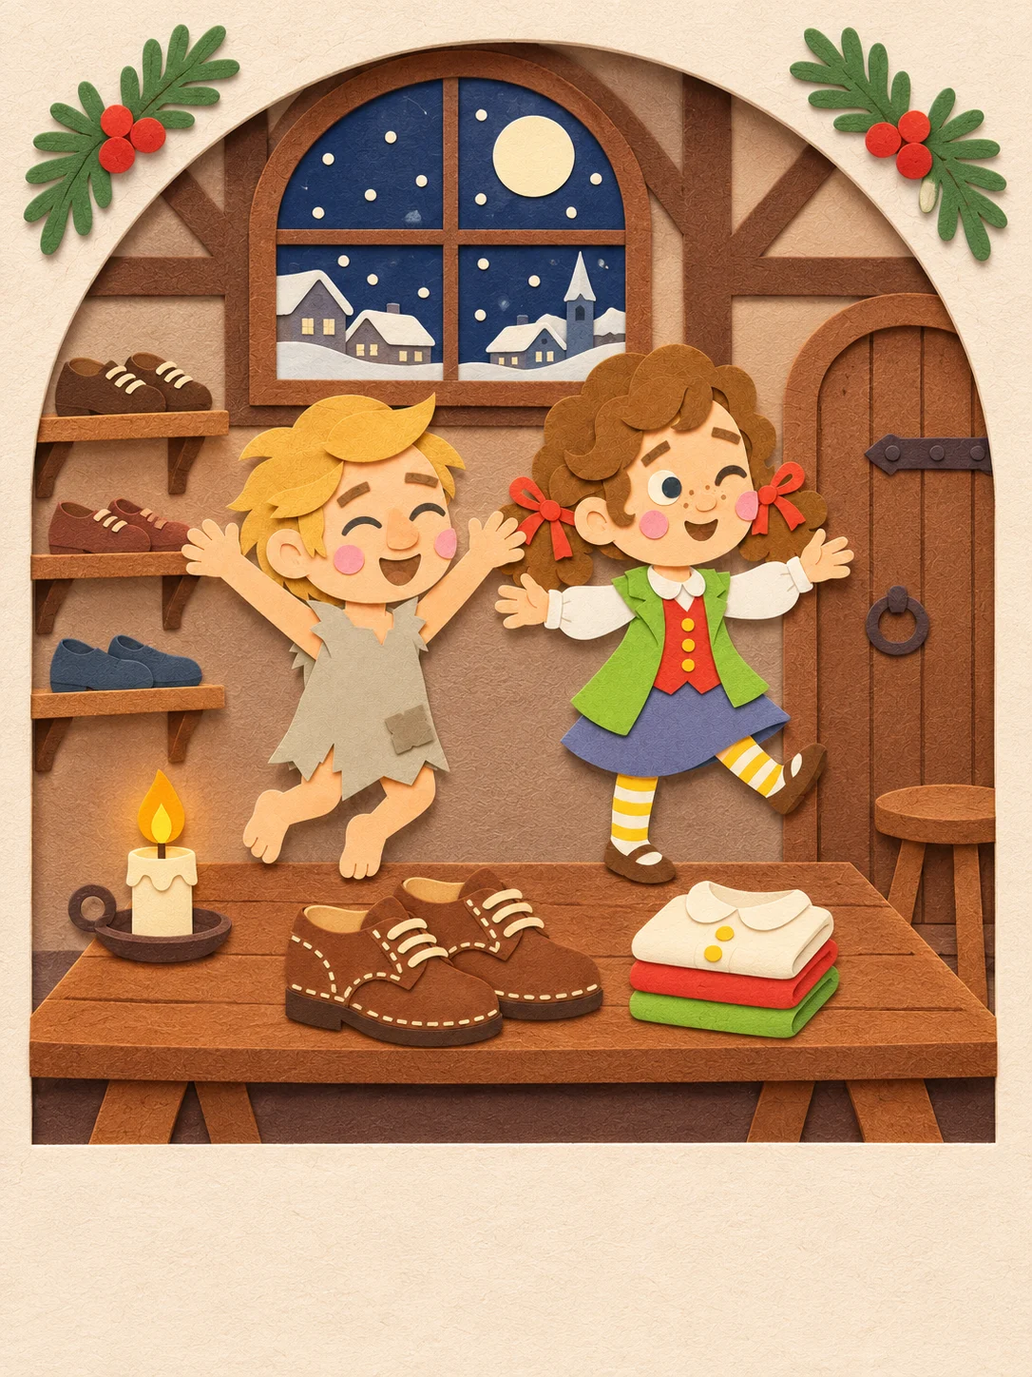
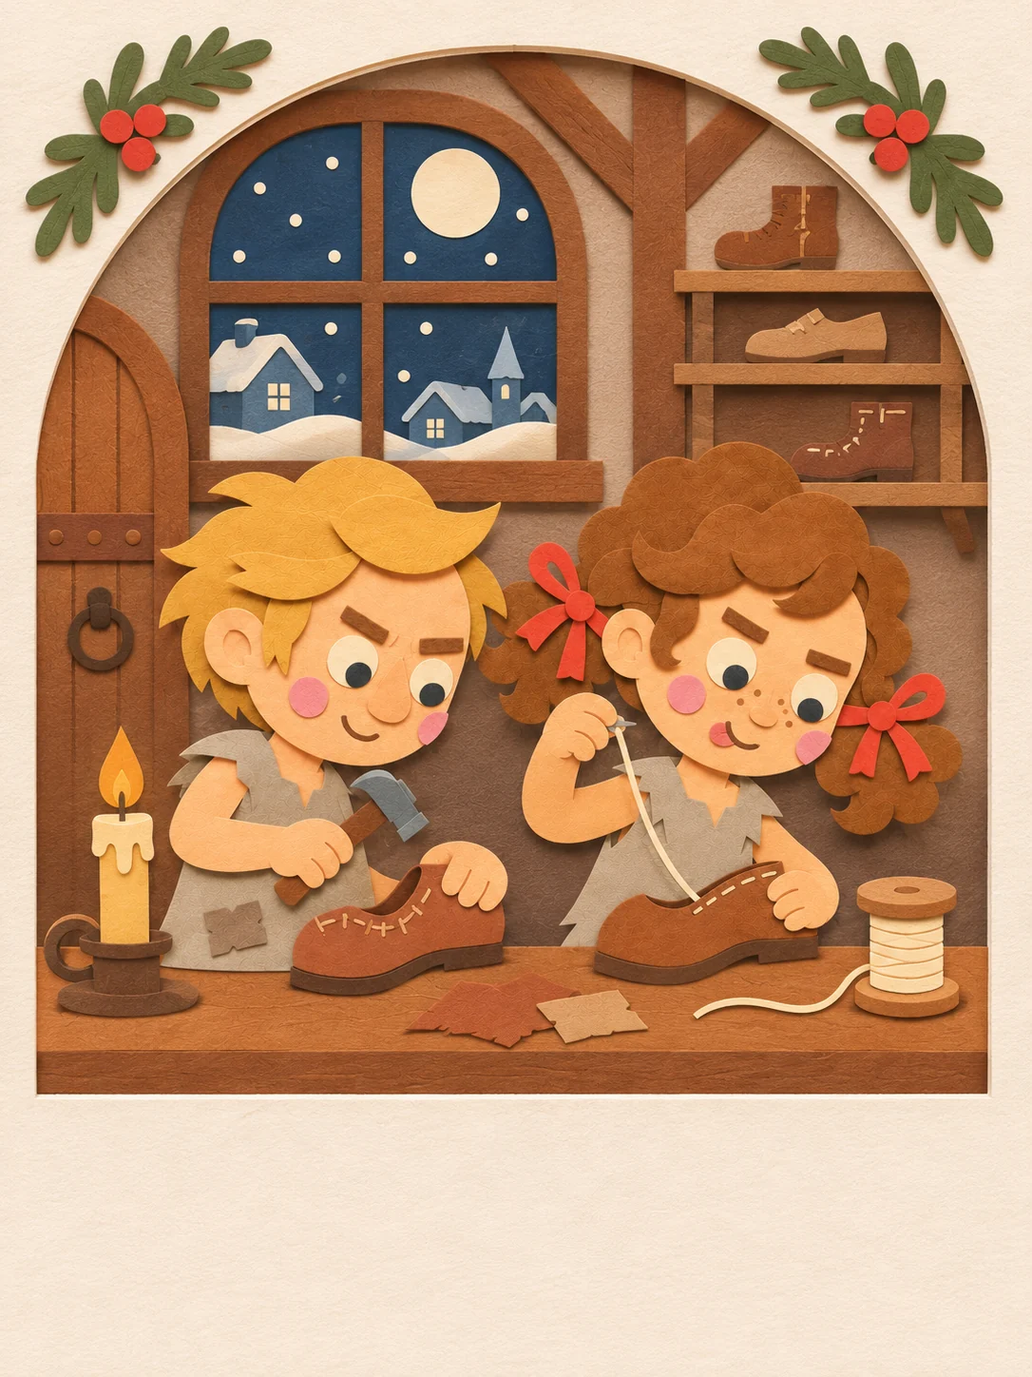
크리스마스 전날 밤 4장 아빠가 창턱에 손을 얹게 자세 그림 다시, 구두장이와 요정 세로 시작 그림을 결말 전 장면으로, 진저브레드맨 여우 장면 눈가루를 둘레 0.85초로 줄임, 기획서에 사용자 결정 기록
Claude-Session: https://claude.ai/code/session_01BY9NwcYaGBVoJkDe4jJ2J6

diff --git a/tales/night_before/night_before.js b/tales/night_before/night_before.js
@@ -11,7 +11,8 @@
   const BG_YARD = 'nb_bg_yard';      // ← 앞마당 빛 상자가 합성 검수를 통과하면 'nb_bg_yard_lb' 로 바꾼다(5~7장)
   const BG_SKY = 'nb_bg_sky_lb';     // ← 12장 빛 상자판(검수 탈락이면 'nb_bg_sky')
   const AS = '../../assets/v3w/';
-  const src = k => AS + k + '.webp';
+  const IMGV = { nb_dad_look_out: 'lo2' };   // 같은 이름으로 다시 그린 그림: 옛 그림이 캐시에 남지 않게(2026-11-28)
+  const src = k => AS + k + '.webp' + (IMGV[k] ? '?v=' + IMGV[k] : '');
   const QS = (() => { try { return new URLSearchParams(location.search); } catch (e) { return new URLSearchParams(''); } })();
   const L = typeof NB_LINES !== 'undefined' ? NB_LINES : {};
   const MORAL = '모두에게 즐거운 크리스마스, 그리고 모두 포근히 잘 자요.';
@@ -19,18 +20,18 @@
 
   /* ---------- 비율(ASP.txt). preload 가 실제 그림 비율로 다시 덮는다 ---------- */
   const ASP = {};
-  'santa_stand_pack .7917 deer_stand .9617 mom_sleep 1.9438 kid1_sleep 1.7143 kid2_sleep 1.7208 mouse_sleep 1.115 dad_stand .4067 dad_sleep 1.875 dad_wake 1.2 dad_dash 1.0067 dad_open_window .8017 dad_look_out .4717 dad_window_face .7583 dad_window_up .76 dad_turn .5267 dad_startled .4017 dad_peek .3683 dad_giggle .405 dad_relieved .3783 dad_watch_up .5283 dad_wave .5567 santa_drive .9717 santa_whistle .8233 santa_bound_down .8083 santa_land 1.055 santa_show_pack .7767 santa_laugh .78 santa_wink .8133 santa_fill 1.0633 santa_done .75 santa_finger_nose .8083 santa_rise .7817 santa_jump_sleigh .9233 santa_sleigh_wave 1.1583 deer_prance .6617 deer_run 1.425 deer_fly 1.22 deer_roof .8083 kid1_smile 1.7143 kid2_smile 1.7208 prop_sleigh 1.4917 prop_stocking_red .5883 prop_stocking_green .59 prop_stocking_blue .5883 prop_stocking_yellow .5867 prop_stocking_red_full .6117 prop_stocking_green_full .6167 prop_stocking_blue_full .6 prop_stocking_yellow_full .5867 prop_gift_a .8717 prop_gift_b .87 prop_gift_c .8717 prop_gift_d .8717 prop_shutter_l .5733 prop_shutter_r .575 prop_sash .975 prop_dream_bubble 1.1267 prop_card_cherry .765 prop_card_snowball .7667 prop_card_jelly .765 prop_marker_roof 3.7815 prop_marker_yard 3.7657 prop_marker_wall .3967 prop_marker_sock 3.75 prop_marker_shelf 3.7657 prop_marker_floor 3.7975 prop_ash_cloud 2.9412 prop_leaves 1.495 prop_snow_puff 1.1917 prop_holly 1.3383 prop_candle .7567 prop_lamb_toy 1.41 prop_harness_red 1.0983 prop_harness_green 1.0983 prop_harness_blue 1.0983 prop_harness_marigold 1.0967 prop_harness_plum 1.0983 prop_harness_persimmon 1.0533 prop_harness_lagoon 1.1017 prop_harness_pink 1.0983'
+  'santa_stand_pack .7917 deer_stand .9617 mom_sleep 1.9438 kid1_sleep 1.7143 kid2_sleep 1.7208 mouse_sleep 1.115 dad_stand .4067 dad_sleep 1.875 dad_wake 1.2 dad_dash 1.0067 dad_open_window .8017 dad_look_out .4 dad_window_face .7583 dad_window_up .76 dad_turn .5267 dad_startled .4017 dad_peek .3683 dad_giggle .405 dad_relieved .3783 dad_watch_up .5283 dad_wave .5567 santa_drive .9717 santa_whistle .8233 santa_bound_down .8083 santa_land 1.055 santa_show_pack .7767 santa_laugh .78 santa_wink .8133 santa_fill 1.0633 santa_done .75 santa_finger_nose .8083 santa_rise .7817 santa_jump_sleigh .9233 santa_sleigh_wave 1.1583 deer_prance .6617 deer_run 1.425 deer_fly 1.22 deer_roof .8083 kid1_smile 1.7143 kid2_smile 1.7208 prop_sleigh 1.4917 prop_stocking_red .5883 prop_stocking_green .59 prop_stocking_blue .5883 prop_stocking_yellow .5867 prop_stocking_red_full .6117 prop_stocking_green_full .6167 prop_stocking_blue_full .6 prop_stocking_yellow_full .5867 prop_gift_a .8717 prop_gift_b .87 prop_gift_c .8717 prop_gift_d .8717 prop_shutter_l .5733 prop_shutter_r .575 prop_sash .975 prop_dream_bubble 1.1267 prop_card_cherry .765 prop_card_snowball .7667 prop_card_jelly .765 prop_marker_roof 3.7815 prop_marker_yard 3.7657 prop_marker_wall .3967 prop_marker_sock 3.75 prop_marker_shelf 3.7657 prop_marker_floor 3.7975 prop_ash_cloud 2.9412 prop_leaves 1.495 prop_snow_puff 1.1917 prop_holly 1.3383 prop_candle .7567 prop_lamb_toy 1.41 prop_harness_red 1.0983 prop_harness_green 1.0983 prop_harness_blue 1.0983 prop_harness_marigold 1.0967 prop_harness_plum 1.0983 prop_harness_persimmon 1.0533 prop_harness_lagoon 1.1017 prop_harness_pink 1.0983'
     .split(' ').reduce((k, v, i, a) => { if (i % 2) ASP['nb_' + a[i - 1]] = +v; return k; }, 0);
 
   /* ---------- 높이(HT, 장면 비율 K=1 기준) ----------
-     아빠: 얼굴 폭(그림 px, 높이 600 그림, 누움 480) stand 136 · dash 159 · giggle 134 · look_out 133 · peek 139 · relieved 132 · startled 139 · turn 133 · watch_up 128 · wave 130 ·
+     아빠: 얼굴 폭(그림 px, 높이 600 그림, 누움 480) stand 136 · dash 159 · giggle 134 · look_out 127(2026-11-28 까치발 자세로 다시 그림) · peek 139 · relieved 132 · startled 139 · turn 133 · watch_up 128 · wave 130 ·
            window_face 240 · window_up 224 · sleep 206(높이 480) · wake 179. 덧문 열기(뒷모습)는 얼굴이 1/4만 보여 서기와 같게 둔다.
      산타(아빠의 0.7): 앞쪽 볼 지름(자동 측정 뒤 나란히 놓고 사진으로 고친 값) stand_pack 40 · drive 39 · whistle 40 · bound_down 40 · land 43 · show_pack 40 · laugh 40 · wink 39 · fill 40 · done 39 · finger_nose 38 · rise 38 · jump_sleigh 42 · sleigh_wave 42.
      순록(아빠의 0.42, 뿔 끝까지): 귀 안쪽 길이 stand 81 · roof 78 · prance 73 · run 73 · fly(귀가 접혀 사진으로 견줌) 73.
      엄마 머리 = 아빠 머리, 아이 머리 = 아빠의 0.85(PLAN 크기표). 소품은 PLAN 크기표 그대로 */
   const DAD = 220, SANTA = DAD * .7, DEER = DAD * .42;
   const HT = {};
-  const DADFW = { stand: 136, dash: 159, giggle: 134, look_out: 133, open_window: 136, peek: 139, relieved: 132, startled: 139, turn: 133, watch_up: 128, wave: 130, window_face: 240, window_up: 224, sleep: 206, wake: 179 };
+  const DADFW = { stand: 136, dash: 159, giggle: 134, look_out: 127, open_window: 136, peek: 139, relieved: 132, startled: 139, turn: 133, watch_up: 128, wave: 130, window_face: 240, window_up: 224, sleep: 206, wake: 179 };
   Object.entries(DADFW).forEach(([p, fw]) => { HT['nb_dad_' + p] = Math.round((p === 'sleep' ? 480 : 600) * (136 * DAD / 600) / fw); });
   const SCK = { stand_pack: 40, drive: 39, whistle: 40, bound_down: 40, land: 43, show_pack: 40, laugh: 40, wink: 39, fill: 40, done: 39, finger_nose: 38, rise: 38, jump_sleigh: 41, sleigh_wave: 45 };   // 2026-11-28 나란히 놓고 머리 크기로 다시 봄(볼 자동 측정이 수염·코와 붙어 튄 값은 사진으로 고침)
   Object.entries(SCK).forEach(([p, c]) => { HT['nb_santa_' + p] = Math.round(SANTA * 40 / c); });
@@ -400,7 +401,7 @@
           await gl.animate(fade, { duration: 600, fill: 'forwards' }).finished.catch(() => {});
           await sleep(700);
         }
-        S.dad.look('look_out', 'right'); S.dad.place(840, 474);
+        S.dad.look('look_out', 'right'); S.dad.place(862, 474);   // 2026-11-28: 까치발 자세로 다시 그려 두 손이 창턱에 얹히게(옛 자세는 손이 창턱보다 약 80 낮았다)
       },
       /* 5 */
       async arrive() {

diff --git a/tales/gingerbread/gingerbread.js b/tales/gingerbread/gingerbread.js
@@ -732,18 +732,31 @@
       fg('gb_fg_fir_branch_l', X(70, 330), 230, HT.gb_fg_fir_branch_l);
     }
     /* 눈가루 덮기: 흰 둥근 조각 40개가 아래에서 위로 퍽 → 덮였다가 흩어짐(코드 파티클) */
+    /* 눈가루 퍽(10장): 먹는 모습은 보이지 않게 여우와 진저브레드맨 둘레만 눈 조각이 잠깐 덮는다.
+       2026-11-28 사용자 결정: 화면 전체를 2~3초 덮던 것(흰 판 + 큰 조각 40개)을 1초 안쪽, 여우 둘레만으로 줄였다.
+       덮인 사이(0.35초)에 진저브레드맨을 숨기고 여우 입을 다문다. 끝나면 조각은 스스로 지운다 */
     function snowBurst() {
-      const g = T.el('g', { 'pointer-events': 'none' }, T.fx); S.burst = g;
-      const cover = T.el('rect', { x: -400, y: -200, width: 1800, height: 1000, fill: '#F4F6FA', opacity: 0 }, g);
-      cover.animate([{ opacity: 0 }, { opacity: .96 }], { duration: 600, fill: 'forwards', delay: 200 });
-      for (let i = 0; i < 40; i++) {
-        const r = 30 + Math.random() * 60, x = (P ? LX - 220 : -40) + Math.random() * (P ? 440 : 1080);
-        const c = T.el('circle', { cx: x, cy: 640, r, fill: i % 3 ? '#FFFFFF' : '#DCEBF5' }, g);
-        c.animate([{ transform: 'translate(0,0)' }, { transform: `translate(${(Math.random() - .5) * 120}px, ${-300 - Math.random() * 520}px)` }], { duration: 600, easing: 'ease-out', fill: 'forwards', delay: Math.random() * 150 });
-      }
+      const cx = (fox.x + man.x) / 2, cy = ROAD - 95, done = () => { hide(man); fox.look('block_front'); };
       cue('el_gb_snow_burst', .7) || cue('xm_cymbal_tap', .5);
+      if (document.hidden) { done(); return sleep(50); }
+      const g = T.el('g', { 'pointer-events': 'none' }, T.fx);
+      for (let i = 0; i < 24; i++) {
+        const ang = Math.random() * Math.PI * 2, d = Math.sqrt(Math.random());
+        const x = cx + Math.cos(ang) * 120 * d, y = cy + Math.sin(ang) * 95 * d, r = 26 + Math.random() * 26;
+        const c = T.el('circle', { cx: x, cy: ROAD, r, fill: i % 3 ? '#FFFFFF' : '#DCEBF5', opacity: 0 }, g);
+        c.style.transformBox = 'fill-box'; c.style.transformOrigin = 'center';   // 줄고 커질 때 제자리에서(SVG 기본은 원점 기준이라 왼쪽 위로 날아갔다)
+        const dx = (x - cx) * .9, dy = (y - cy) * .9 - 40;
+        c.animate([
+          { transform: 'translate(0px,0px) scale(.3)', opacity: 0 },
+          { transform: `translate(0px,${y - ROAD}px) scale(1)`, opacity: 1, offset: .32 },
+          { transform: `translate(0px,${y - ROAD}px) scale(1)`, opacity: 1, offset: .5 },
+          { transform: `translate(${dx}px,${y - ROAD + dy}px) scale(.6)`, opacity: 0 }
+        ], { duration: 850, easing: 'ease-out', fill: 'forwards', delay: Math.random() * 60 });
+      }
+      setTimeout(done, 340);
+      return sleep(920).then(() => g.remove());
     }
-    const unBurst = async () => { const g = S.burst; if (!g) return; S.burst = null; await g.animate([{ opacity: 1 }, { opacity: 0 }], { duration: document.hidden ? 50 : 1200, fill: 'forwards' }).finished; g.remove(); };
+    const unBurst = async () => { /* 2026-11-28: 눈가루가 스스로 걷힌다(옛 화면 덮개 걷기 자리) */ };
     const small = k => { try { const b = document.getElementById('bubbleText'); if (b) b.style.fontSize = k ? `${k}em` : ''; } catch (e) { /* */ } };
     B[10] = [
       async () => {
@@ -768,9 +781,8 @@
         stopRun(man); man.look('caught_front'); man.place(X(745, 650), ROAD); man.hop(10, 220);
       },
       'S10-3',
-      async () => { fox.look('mouth_open', 'left'); cue('el_gb_snap_kazoo', .5); await sleep(400); snowBurst(); await sleep(600); hide(man); },
-      'S10-4',
-      async () => { small(.85); cue('xm_woodblock_tok', .4); },
+      'S10-4',   // "잡았다!" 뒤에 와앙 → 눈가루 퍽(기획서 장면표 순서. 2026-11-28 눈가루를 짧게 줄이며 '잡았다' 앞에서 뒤로 옮김: 앞에 두면 진저브레드맨이 대사 전에 사라져 보였다)
+      async () => { fox.look('mouth_open', 'left'); cue('el_gb_snap_kazoo', .5); await sleep(400); await snowBurst(); small(.85); cue('xm_woodblock_tok', .4); },
       'S10-5',
       async () => { small(.7); cue('xm_woodblock_tok', .35); },
       'S10-6',

diff --git a/tales/night_before/index.html b/tales/night_before/index.html
@@ -19,6 +19,6 @@
 <script src="../../entitlements.js?v=20261126store4"></script>
 <script src="../../audio.js?v=20261125en1"></script>
 <script src="../../engine/tale.js?v=20261124cov1"></script>
-<script src="night_before.js?v=20261128nb3"></script>
+<script src="night_before.js?v=20261128nb4"></script>
 </body>
 </html>

diff --git a/tales/gingerbread/index.html b/tales/gingerbread/index.html
@@ -19,6 +19,6 @@
 <script src="../../entitlements.js?v=20261126store4"></script>
 <script src="../../audio.js?v=20261125en1"></script>
 <script src="../../engine/tale.js?v=20261124cov1"></script>
-<script src="gingerbread.js?v=20261128gb3"></script>
+<script src="gingerbread.js?v=20261128gb4"></script>
 </body>
 </html>

diff --git a/tools/app/gen/mk_jobs_night_before.py b/tools/app/gen/mk_jobs_night_before.py
@@ -109,7 +109,8 @@ char('dad', 'nb_dad_sleep', 'LYING ASLEEP ON HIS BACK in bed seen from the side,
 char('dad', 'nb_dad_wake', 'SITTING BOLT UPRIGHT in bed, side view facing RIGHT: his legs still under a plum-purple (#7B4F8C) quilt with a straw-gold band, one hand throwing the quilt back, the nightcap pompom flying up. STARTLED face: eyes big round discs, eyebrows raised high, mouth a small round "o". Looking RIGHT. NO BED FRAME: do NOT draw the bed, headboard, footboard or bed legs (the bed is in the background picture); draw ONLY the figure with the pillow and the quilt, the bottom edge of the quilt cut straight.', '3', DAD, shape='wide', note='소리 난 창(오른쪽)을 봄')
 char('dad', 'nb_dad_dash', 'DASHING to the RIGHT: body leaning far forward, one arm swung back and one forward, one slipper flying off his foot behind him, the nightcap streaming back. CURIOUS face: one eyebrow raised, mouth closed and a little open. Looking RIGHT. (A running-lean pose, not a walking pose; both feet close to the ground.)', '4', DAD, note='GSAP 로 미끄러지듯 창가로. 걷기 그림 없음')
 char('dad', 'nb_dad_open_window', 'seen from BEHIND at a slight angle (three-quarter back view, only a quarter of his face visible at the right), both arms raised and spread wide, palms pushing outward as if throwing open two shutters in front of him (the shutters are NOT drawn), the nightcap hanging down his back. Effort: mouth pressed shut (only a sliver visible).', '4', DAD, note='톡 뒤 1초. 덧문은 소품')
-char('dad', 'nb_dad_look_out', 'SIDE VIEW FACING RIGHT, leaning his upper body forward, both hands resting on an invisible window sill in front of him (hands flat at the same height), looking out to the RIGHT. WIDE-EYED face: eyes big and round, eyebrows high, mouth a small open "o".', '4·5', DAD, note='창 안쪽에서 밖을 봄')
+# 2026-11-28 사용자 결정: 4장 창턱이 손보다 높아(무대 단위 약 80) 벽에 기댄 것처럼 보였다 → 까치발로 서서 턱 높이 창턱에 두 손을 얹는 자세로 다시 그림(배경 창은 3·4장 두 배경·덧문·창틀 소품이 같이 바뀌어야 해서 그대로). 옛 v1 은 _rej/
+char('dad', 'nb_dad_look_out', 'SIDE VIEW FACING RIGHT, standing UPRIGHT and tall on his TIPTOES (both heels lifted off the ground, toes down), his back straight, NOT bending forward. Both forearms raised in front of his chest with the elbows bent and pointing down, both hands resting flat side by side on an invisible HIGH window sill at the height of his CHIN (the hands are at the level of his chin and mouth, the tops of the hands level and flat as if lying on a shelf), peeking out over the sill to the RIGHT. The long nightcap hangs down his back. WIDE-EYED face: eyes big and round, eyebrows high, mouth a small open "o".', '4·5', DAD, note='창 안쪽에서 밖을 봄(까치발, 턱 높이 창턱)')
 char('dad', 'nb_dad_window_face', 'ONLY his head, shoulders and both hands, seen from OUTSIDE as if looking out of a window: the bottom edge is cut STRAIGHT across at the chest, both hands resting on that straight bottom edge (a window sill). Three-quarter view facing RIGHT. AMAZED AND HAPPY face: eyes sparkling, eyebrows up, mouth open in a big smile. NO window frame drawn.', '5·6·7', DAD, note='창틀은 배경. 머리 폭 1.0 그대로')
 char('dad', 'nb_dad_window_up', 'ONLY his head, shoulders and both hands, the bottom edge cut STRAIGHT across at the chest with both hands on that straight edge (a window sill); his head TILTED BACK looking UP to the UPPER RIGHT (toward the roof). CURIOUS face: eyebrows raised, mouth a small round "o". NO window frame drawn.', '7', DAD, note='발굽 소리를 듣는 순간')
 char('dad', 'nb_dad_turn', 'FRONT VIEW, caught in the middle of turning around: shoulders twisted, one foot lifted a little off the floor, arms loose. CURIOUS face looking toward the viewer: one eyebrow raised.', '8', DAD, note='정면. 8장 앞부분 한 번만, 뒤집지 않음')

diff --git a/tools/app/gen/mk_jobs_elves_shoemaker.py b/tools/app/gen/mk_jobs_elves_shoemaker.py
@@ -353,8 +353,9 @@ key('es_key_land', WIN.format(asp='wide 16:9', pos='its flat bottom at about 78%
     ['es_ea_sit_sew', 'es_eb_sit_hammer', 'es_sm_hide_peek', 'es_wf_hide_peek'], 'assets/raw/keyart_gpt/elves_shoemaker_wide_v1.png', 'landscape 16:9', light_b=True)
 key('es_key_port', WIN.replace('SHOE seen from the side (a rounded toe at the right, a low heel at the left, a flat bottom)', 'tall ARCHED WINDOW (a rectangle with a round top)').format(
         asp='portrait 3:4', pos='its bottom at about 80% of the height, its width about 86% of the canvas width', rest='The lower 20% of the canvas below the window is plain empty cream paper (a title is placed there later).'),
-    'Stacked from top to bottom (a DIFFERENT composition, not a crop): at the top a window with a cream moon and falling snow; in the middle ' + ELVES2 + ', in their new colourful clothes jumping for joy on the work table, BIG; at the bottom a tiny pair of shoes and tiny folded clothes.',
-    ['es_ea_joy_jump', 'es_eb_dressed_dance', 'es_prop_tiny_pair'], 'assets/raw/keyart_gpt/elves_shoemaker_tall_v1.png', 'portrait 3:4', light_b=True)
+    # 2026-11-28 사용자 결정: 시작 그림(잠자리 플레이어 표지도 됨)이 결말(새 옷)을 보이면 안 된다 → 한밤에 헌 회색 작업옷으로 구두를 만드는 장면(타일 v2 와 같은 차림). 옛 v1 은 assets/raw/keyart_gpt/_rej/
+    'Stacked from top to bottom (a DIFFERENT composition from the wide picture, not a crop): at the top a window with a cream moon and falling snow; in the middle ' + ELVES2 + ', both wearing their simple old patched grey work tunics (NOT new clothes, no colourful clothes), sit BIG on the work table side by side at midnight, happy and busy (faces large and clear): the boy taps a chestnut-brown shoe with a tiny hammer, the girl stitches another shoe with a needle and a long thread. One candle glows warm amber on the table beside them; a spool of thread and a few leather pieces lie nearby. Keep the faces and hands in the upper two thirds of the window; the lowest part of the window (the front edge of the table) stays simple because the title overlaps it. It must NOT show the ending (no new clothes, no tiny folded clothes, no gifts, no jumping for joy).',
+    ['es_ea_sit_hammer', 'es_eb_sit_sew', 'es_prop_shoe_brown'], 'assets/raw/keyart_gpt/elves_shoemaker_tall_v2.png', 'portrait 3:4', light_b=True)
 key('es_thumb', 'COMPOSITION (most important):\nA landscape 4:3 thumbnail tile, a full-bleed rectangular paper diorama picture (no cream sheet, no window, no border, no frame). Only 2 or 3 flat paper depth planes.',
     # 2026-11-28 사용자 결정: 타일은 퍼즐 조각·잠자리 표지에 쓰여 결말(새 옷)을 보이면 안 된다 → 밤에 헌 작업옷으로 구두를 만드는 장면. '맨발·누더기' 문구는 안전 필터에 막혀 '헌 회색 작업옷'으로 쓴다. 옛 v1 은 assets/raw/keyart_gpt/_rej/
     'At midnight on the shoemaker\'s work table, ' + ELVES2 + ', both wearing their simple old patched grey work tunics (NOT new clothes, no colourful clothes), sit BIG in the centre (faces large and clear, happy and busy): the boy taps a chestnut-brown shoe with a tiny hammer, the girl stitches it with needle and thread. One candle glows warm amber on the table beside them; leather pieces and a spool of thread lie nearby; a dark navy window with falling snow and a warm umber wall behind. It must NOT show the ending (no new clothes, no gifts).',

diff --git a/tales/elves_shoemaker/PLAN.md b/tales/elves_shoemaker/PLAN.md
@@ -664,6 +664,8 @@
 
 ## 13. 확정 사항
 
+- 2026-11-28 사용자 결정: 세로 시작 그림(`assets/thumbs/elves_shoemaker_key_tall.webp`, 잠자리 플레이어 표지)이 결말(새 옷)을 보여서 결말 전 장면(한밤에 헌 회색 작업옷 요정 둘이 구두를 만드는 장면)으로 다시 그렸다. 가로 시작 그림은 이미 결말 전 장면이라 그대로. 조작 8번이 많은지는 사용자가 직접 해 보고 정한다.
+
 ### 13-0. 2026-11-26 사용자 결정: "추천대로" (판단 1~16 확정)
 - §12 판단은 모두 권장안으로 확정(각 줄 끝 '확정' 표시): 12장, 요정은 회색 누더기 한 장(사람 귀), 기도 생략, 요정 노래는 리듬 있는 말(합창), 라이트박스 6장 한 장만 검수 뒤 결정, 짝 찾기 2회, 크기 고르기 2회, 웃는/우는 얼굴 카드, 끝 인사 "메리 크리스마스!" + "따뜻한 크리스마스 보내세요!", 중년 부부, 표정 다른 그림은 전신 따로, 선물 세트는 코드 배치, 손님 2와 3 둘 다, 12장 발자국 소품 추가. 13번(카탈로그 묶음)은 권장안이 없어 중심 세션 몫.
 - **예외: 판단 14(배경 음악)는 뒤집힘.** 사용자 추가 결정 "음악은 ElevenLabs 로 캐럴 멜로디 그대로 생성, 효과음도 많이". 「We Wish You a Merry Christmas」 멜로디 그대로를 ElevenLabs 음악으로, 효과음은 넉넉히(§10). 제작은 음악·효과음 담당 에이전트.

diff --git a/tales/night_before/PLAN.md b/tales/night_before/PLAN.md
@@ -507,6 +507,8 @@
 
 ## 확정 사항
 
+- 2026-11-28 사용자 결정: 12장 마지막 줄 "모두 포근히 잘 자요"는 그대로 둔다. 4장 창턱이 아빠 손보다 무대 단위 약 80 높아 벽에 기댄 것처럼 보이던 것은 `nb_dad_look_out` 을 까치발로 서서 턱 높이 창턱에 두 손을 얹는 자세로 다시 그려 고쳤다(배경 `nb_bg_parents` 는 3장과 4장, 열린 창 배경, 덧문 소품이 함께 바뀌어야 해서 그대로 둠). 옛 그림은 assets/raw/restyle/night_before/_rej/nb_dad_look_out_v1_lowhands.*
+
 ### 2026-11-26 사용자 결정: "추천대로" (판단 1~13 확정)
 - 판단 항목은 모두 ★추천안으로 확정(§판단 각 줄 끝 '확정' 표시). 12장, 파이프 2행 뺌, 원작 마지막 행을 교훈 자리에, 1인칭 아빠, 트리 없음(호랑가시), 순록 이름 소리 그대로, 12장 빛 상자 먼저 검수, 원제는 영어 모드에서만, 살 붙이기 두 줄, 고삐 서기용 8장 먼저, 창 속 아빠 크기 그대로.
 - **예외: 판단 10(배경 음악)은 뒤집힘.** 사용자 추가 결정 "음악은 ElevenLabs 로 캐럴 멜로디 그대로 생성, 효과음도 많이". 「고요한 밤」(1818, 공공 영역) 멜로디 그대로를 ElevenLabs 음악으로 생성해 1~3장, 10~12장에 낮게 깐다. 효과음은 넉넉히. 제작은 음악·효과음 담당 에이전트(§배경 음악).

diff --git a/tales/gingerbread/PLAN.md b/tales/gingerbread/PLAN.md
@@ -545,6 +545,8 @@
 
 ## 15. 확정 사항
 
+- 2026-11-28 사용자 결정: 10장 눈가루가 화면 대부분을 2~3초 가리던 것을 1초 안쪽, 여우와 진저브레드맨 둘레만 덮게 줄였다(먹는 모습은 보이지 않게 하는 순화 방식은 그대로: 덮인 사이에 진저브레드맨이 사라지고, "조금, 반, 다 없어졌어"는 말풍선만 점점 작게). 쫓는 줄 컷의 일꾼 순서는 그대로 둔다.
+
 ### 15-0. 2026-11-26 사용자 결정: "추천대로" (판단 1~15 확정)
 - §14 판단은 모두 권장안으로 확정(각 줄 끝 '확정' 표시): 먹는 장면 1안(화면만 가림), 여우는 1875 판 A안(가장 빨라서 잡음, 선택 B, C 자세 만들지 않음), 누적 구절 + 통용 구절, 마른 풀 베기, 11장 맺음 장면, 11장 유지, 진저브레드맨 0.55, 진저브레드맨 달리기 2프레임, 표정마다 한 장, 라이트박스 11장 한 장 검수 뒤 결정, 할머니 Plum Purple 유지(가장자리 확인), 제목 「진저브레드맨」, `compare` 태그 추가, 세 편 접두어와 내레이터 겹침 없음.
 - **교훈은 A안 그대로**: "잘 달린다고 뽐내지 말아요. 나보다 빠른 이는 어디에나 있어요."(B안 교훈은 쓰지 않음)
